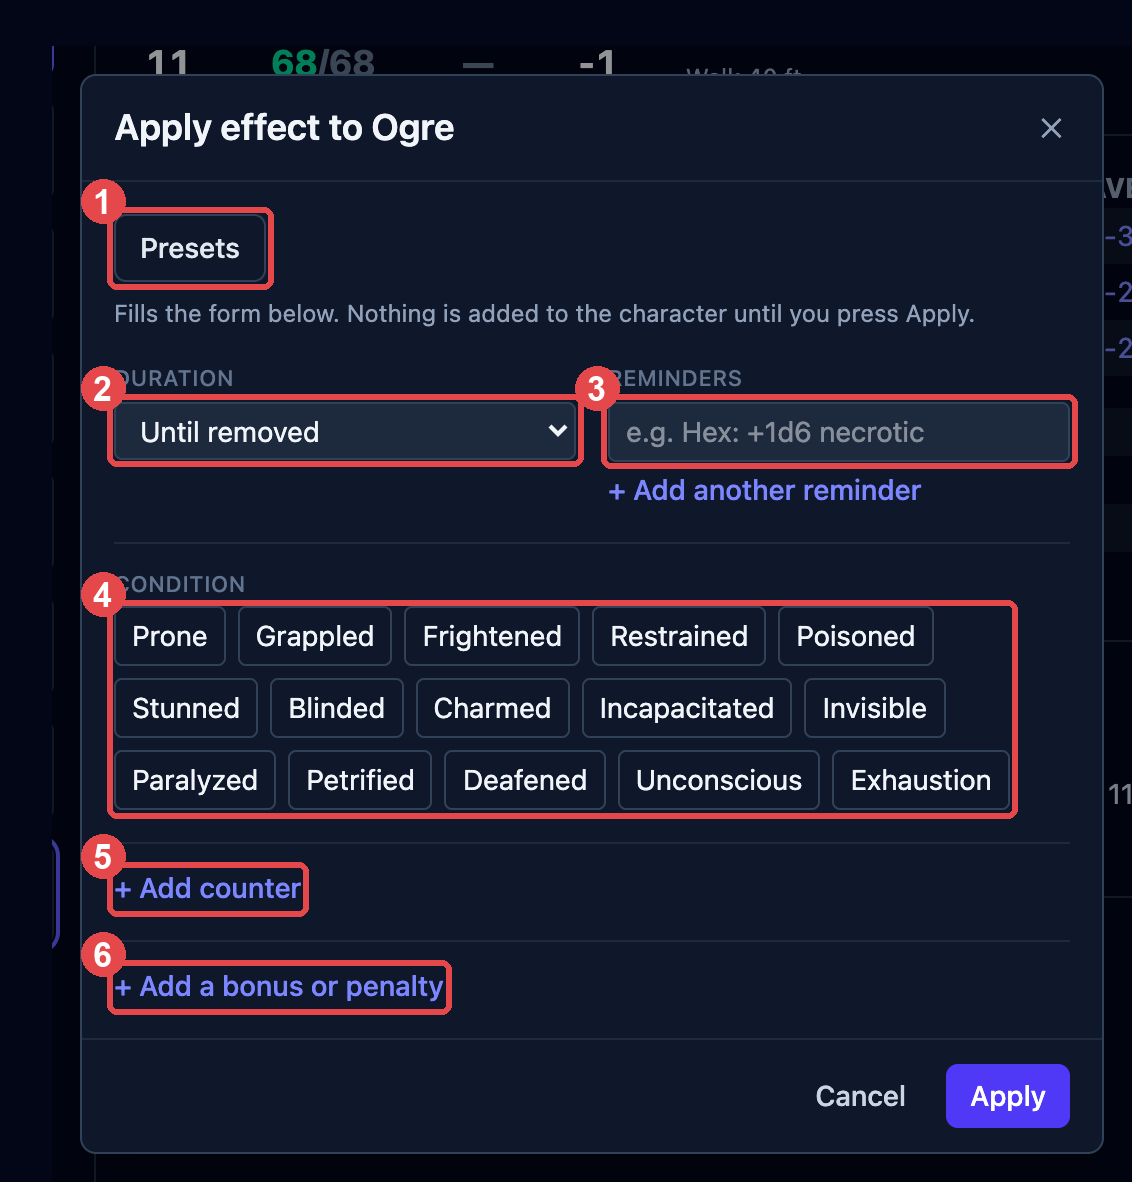
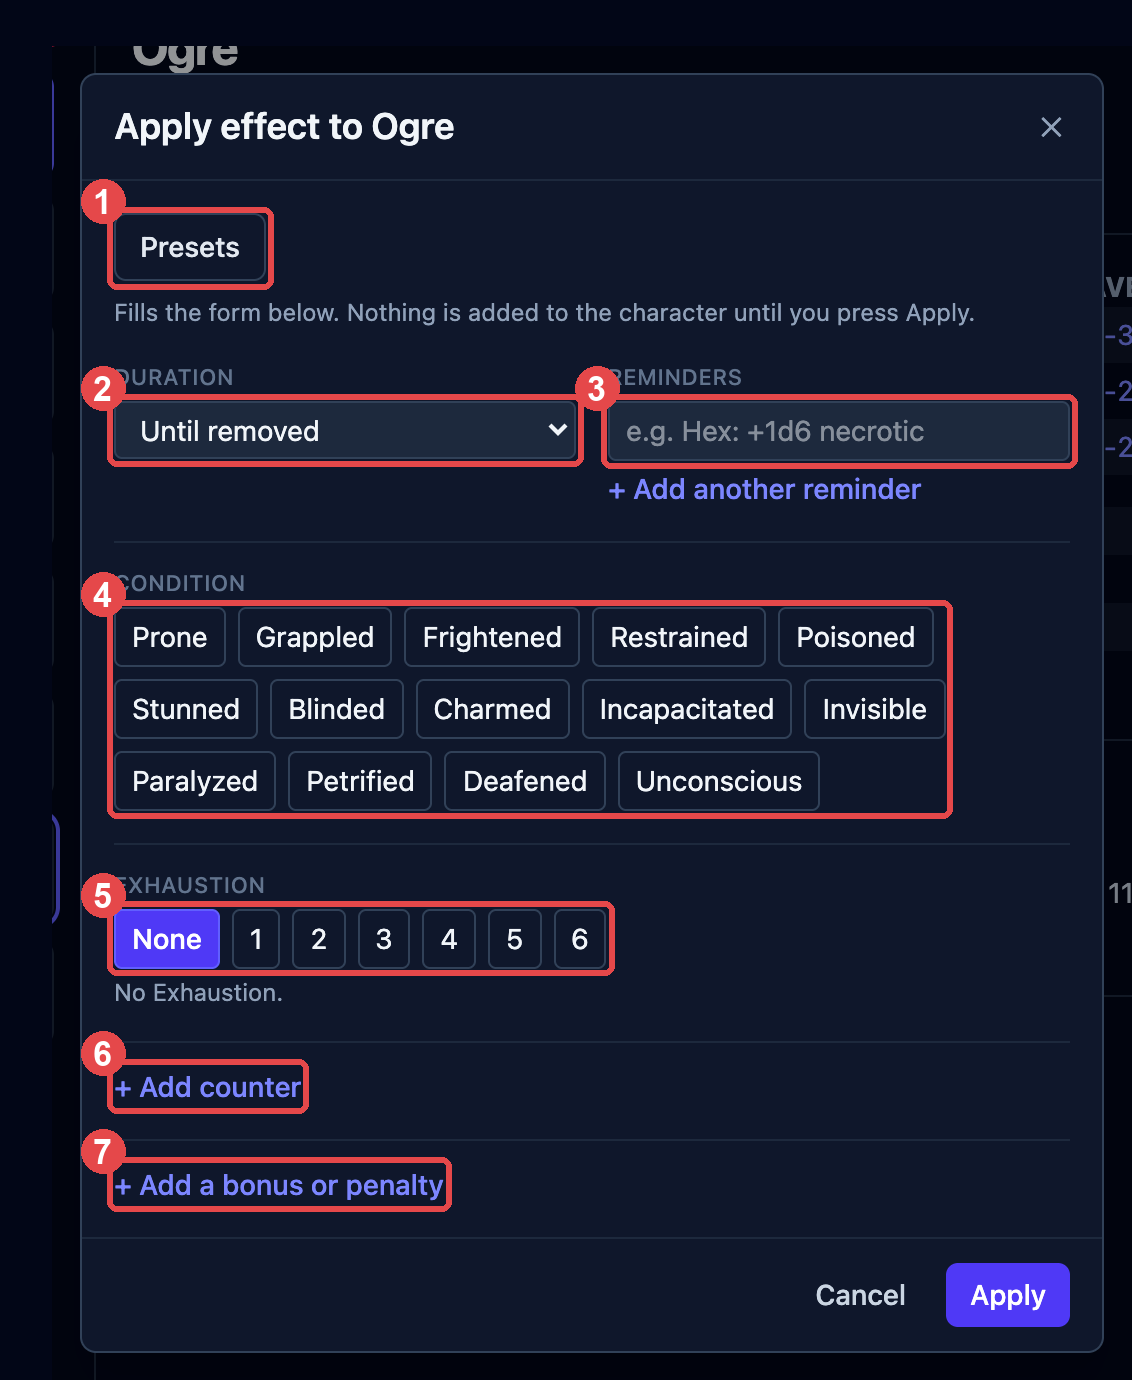
Docs: document Exhaustion levels
The handbook still called Exhaustion an example of a counter, which is
where the app used to leave it. It has its own section now: how to set a
level, what the header's buttons do, what each edition's levels cost, and
that death at 6 and the long rest's removal are the reader's to apply.

Presets get a paragraph too, since a preset adds levels rather than
setting one.

The Apply effect capture gained a seventh numbered region; its recipe and
the page's alt text follow it.

diff --git a/scripts/screenshots/shots.py b/scripts/screenshots/shots.py
@@ -189,24 +189,29 @@ def apply_effect():
         page.get_by_role("button", name="Apply effect").click()
         page.wait_for_timeout(400)
         first = page.get_by_role("button", name="Prone", exact=True).bounding_box()
-        last = page.get_by_role("button", name="Exhaustion", exact=True).bounding_box()
+        last = page.get_by_role("button", name="Unconscious", exact=True).bounding_box()
         edge = max(b["x"] + b["width"] for b in (
             page.get_by_role("button", name="Poisoned", exact=True).bounding_box(),
             page.get_by_role("button", name="Invisible", exact=True).bounding_box(), last))
+        # Exhaustion carries a level, so it is its own row of chips: None through 6.
+        none = page.get_by_role("button", name="No Exhaustion").bounding_box()
+        six = page.get_by_role("button", name="Exhaustion 6").bounding_box()
         capture(page, "apply-effect", panel_of(page, "Apply effect to Ogre"), {
             "presets": page.get_by_role("button", name="Presets").bounding_box(),
             "duration": page.get_by_label("Duration").bounding_box(),
             "reminder": page.get_by_placeholder("e.g. Hex: +1d6 necrotic").bounding_box(),
             "condition": {"x": first["x"], "y": first["y"], "width": edge - first["x"],
                           "height": last["y"] + last["height"] - first["y"]},
+            "exhaustion": {"x": none["x"], "y": none["y"],
+                           "width": six["x"] + six["width"] - none["x"], "height": none["height"]},
             "counter": page.get_by_role("button", name="Add counter").bounding_box(),
             "modifier": page.get_by_role("button", name="Add a bonus or penalty").bounding_box(),
         }, pad=14)
-    # Numbered to match the staging steps 1–6 on fight/effects.md.
+    # Numbered to match the staging steps 1–7 on fight/effects.md.
     r = rects(f"{OUT}/apply-effect.json")
     c = Canvas(f"{OUT}/apply-effect.png", grow=(52, 46, 0, 0), font_size=34)
-    for n, key in enumerate(["presets", "duration", "reminder", "condition", "counter",
-                             "modifier"], 1):
+    for n, key in enumerate(["presets", "duration", "reminder", "condition", "exhaustion",
+                             "counter", "modifier"], 1):
         b = c.box(r[key], pad=7)
         c.number((b[0] - 4, b[1] - 6), n, r=22)
     return c.save(f"{OUT}/apply-effect.png")

diff --git a/docs/src/content/docs/fight/effects.md b/docs/src/content/docs/fight/effects.md
@@ -16,16 +16,17 @@ an **effect**, and they all work the same way.
 
 Whatever spell or ability caused it, what lands on a creature is always one of these:
 
-| Kind                                  | Examples                                         |
-| ------------------------------------- | ------------------------------------------------ |
-| **A condition**                       | Prone, Frightened, Paralyzed, Poisoned           |
-| **Attacks against it have advantage** | Faerie Fire, attacking a prone creature in melee |
-| **Its own rolls have disadvantage**   | Vicious Mockery, Bane                            |
-| **A bonus or penalty to rolls**       | Bless (+1d4), Bane (−1d4), +10 to Stealth        |
-| **A change to its numbers**           | +2 to armor class, Speed halved, −10 HP maximum  |
-| **A reminder**                        | a note to yourself, like "Hex: +1d6 on a hit"    |
-| **Ends on a save**                    | something a saving throw shakes off              |
-| **A counter**                         | a tally you raise and lower, like Exhaustion     |
+| Kind                                  | Examples                                             |
+| ------------------------------------- | ---------------------------------------------------- |
+| **A condition**                       | Prone, Frightened, Paralyzed, Poisoned               |
+| **Attacks against it have advantage** | Faerie Fire, attacking a prone creature in melee     |
+| **Its own rolls have disadvantage**   | Vicious Mockery, Bane                                |
+| **A bonus or penalty to rolls**       | Bless (+1d4), Bane (−1d4), +10 to Stealth            |
+| **A change to its numbers**           | +2 to armor class, Speed halved, −10 HP maximum      |
+| **A reminder**                        | a note to yourself, like "Hex: +1d6 on a hit"        |
+| **Ends on a save**                    | something a saving throw shakes off                  |
+| **A counter**                         | a tally you raise and lower, like a corruption track |
+| **A level of Exhaustion**             | 1 to 6, with the penalties each level brings         |
 
 Conditions are just one kind of effect, so there's only one thing to learn. You tell
 OpenFray what happened; it remembers it and works it into the right rolls and numbers.
@@ -36,7 +37,7 @@ Click the creature in the tracker, then click **Apply effect** in the controls b
 stat block. The box stages everything you pick — nothing lands on the creature until you
 press **Apply**, so you can build the whole thing and change your mind on the way.
 
-![The Apply effect box, with its preset, duration, reminder, condition, counter and bonus-or-penalty controls outlined in red and numbered one to six.](../../../assets/screens/apply-effect.png)
+![The Apply effect box, with its preset, duration, reminder, condition, Exhaustion, counter and bonus-or-penalty controls outlined in red and numbered one to seven.](../../../assets/screens/apply-effect.png)
 
 **1. Start from a preset, if one fits.** **Presets**, at the top of the box, opens a
 search over the ready-made bundles — yours and the ones your
@@ -60,11 +61,15 @@ and reminds you; you decide what it does. **+ Add another reminder** stages a se
 **4. Apply a condition.** These are toggles: the ones already on the creature are
 highlighted, and tapping one again takes it off.
 
-**5. Add a counter.** Click **+ Add counter** and name it — a tally you raise and lower
-by hand, like Exhaustion. Tick **Hidden from players** to keep its number off the shared
-[player view](/docs/fight/player-view/). See [Counters](#counters).
+**5. Set an Exhaustion level.** Exhaustion isn't a toggle — it's a number from 1 to 6.
+Click the level, and the line below spells out what it does before you apply it. **None**
+takes the condition off. See [Exhaustion](#exhaustion).
 
-**6. Add a bonus or penalty.** Click **+ Add a bonus or penalty** and pick _what_ it does
+**6. Add a counter.** Click **+ Add counter** and name it — a tally you raise and lower
+by hand, like a corruption track or a countdown. Tick **Hidden from players** to keep its
+number off the shared [player view](/docs/fight/player-view/). See [Counters](#counters).
+
+**7. Add a bonus or penalty.** Click **+ Add a bonus or penalty** and pick _what_ it does
 (Advantage, Disadvantage, or a number), _what it applies to_, and _whose rolls_ (the
 creature's own, or rolls made against it). It can apply to a kind of roll — attack rolls,
 saving throws, ability checks, or everything — or to one of the creature's numbers:
@@ -75,12 +80,12 @@ OpenFray spells out what you've built in plain English.
 
 ![The Modifier builder in the Apply effect box: an Effect and Applies-to dropdown, ability chips, an On choice, a Label field, and a plain-English summary line.](../../../assets/screens/add-bous-penalty-effect.png)
 
-**7. Name the bundle.** With two or more parts staged, **Apply as one** offers a name —
+**8. Name the bundle.** With two or more parts staged, **Apply as one** offers a name —
 _Drunk_, _Cursed_. Named, everything above lands as one badge that clears together; left
 blank, each part gets its own badge. A counter always stands alone, so its tally outlives
-whatever applied it.
+whatever applied it, and so does an Exhaustion level.
 
-**8. Apply.** Click **Apply** to add everything staged to the combatant — or
+**9. Apply.** Click **Apply** to add everything staged to the combatant — or
 **Save as preset** first, to keep the bundle for the next time. See [Presets](#presets).
 
 ### The numbers a modifier can move
@@ -145,6 +150,9 @@ Presets come from two places:
   _Brood & Bloom_ carries its disease stages and brood counters, and _On Strong Waters
   and Potent Simples_ carries Intoxication, Craving, and the degrees of addiction.
 
+A preset can carry a change in Exhaustion too — see
+[Exhaustion in a preset](#exhaustion-in-a-preset).
+
 Read any preset in full on the compendium's **Effects** tab — see
 [The compendium](/docs/library/compendium/#effects).
 
@@ -201,12 +209,71 @@ roll, or just **Clear** it when they pass.
 When the effect is part of a bundle, succeeding on its save clears the whole bundle —
 the save ends the spell, not one line of it.
 
+## Exhaustion
+
+Exhaustion is the one condition that isn't on or off. It's a level from 1 to 6, and each
+level costs the creature more. OpenFray holds the level and works its penalties into the
+rolls and numbers, the same way it works in any other effect.
+
+To set it:
+
+1. Click the creature, then **Apply effect**.
+2. Under **Exhaustion**, click the level — or **None** to take it off.
+3. Read the line below the levels. It says what that level does before you commit to it.
+4. Click **Apply**.
+
+The creature's row shows one badge reading **Exhaustion 3**, and the **Applied effects**
+list beside the stat block lists what the level landed. Its buttons sit on the badge's
+header line, not on the parts:
+
+| Button        | What it does                                               |
+| ------------- | ---------------------------------------------------------- |
+| **+1**        | Raises the level by one. It stops at 6.                    |
+| **−1**        | Lowers it by one. At 0 the condition ends.                 |
+| **Clear all** | Takes Exhaustion off entirely, with everything it applied. |
+
+The parts underneath have no buttons of their own. They're what the level means, so
+changing one alone would only put it out of step with the number.
+
+### What a level does
+
+Which penalties a level brings depends on which rules your campaign plays, so OpenFray
+reads that from the campaign you're running (see
+[Campaigns & house rules](/docs/library/campaigns/)). Without a campaign it uses the 2024
+rules.
+
+- **Basic Rules 2024** — every d20 roll the creature makes drops by 2 for each level, and
+  its Speed drops by 5 feet for each level. At level 3 that's -6 and -15 feet.
+- **Basic Rules 2014** — each level adds a new penalty on top of the ones below it:
+  Disadvantage on ability checks at 1, Speed halved at 2, Disadvantage on attack rolls
+  and saving throws at 3, the hit point maximum halved at 4, and Speed 0 at 5.
+
+Switching a campaign doesn't rewrite a level already on the board. Set the level again
+and OpenFray rebuilds it for the rules you're playing now.
+
+:::caution[Level 6 is yours to apply]
+A creature at level 6 dies. OpenFray shows that as a reminder and does nothing else — it
+never kills a creature for reaching a number, and it never removes a level at a long rest
+either. Both are your call.
+:::
+
+### Exhaustion in a preset
+
+Exhaustion is cumulative, so a [preset](#presets) carrying it **adds levels** rather than
+setting one. Save a preset while the level is staged and it keeps the change you just made:
+stage 3 on a character already at 1 and the preset is worth two levels. Apply it to someone
+at 0 and they end at 2; apply it to someone at 4 and they end at 6.
+
+The preset's card on the compendium's **Effects** tab says which, as _Gains 2 levels_. A
+preset can relieve Exhaustion the same way — lower the level before you save it, and the
+card reads _Removes 1 level_.
+
 ## Counters
 
 Some things at the table are a number that goes up and down rather than something that
-ends: Exhaustion levels, a homebrew corruption track, a countdown you're running. A
-**counter** is an effect that holds that number for you. OpenFray never changes it — you
-do, and you decide what it means when it gets high.
+ends: a homebrew corruption track, a countdown you're running. A **counter** is an effect
+that holds that number for you. OpenFray never changes it — you do, and you decide what it
+means when it gets high.
 
 To add one:
 
